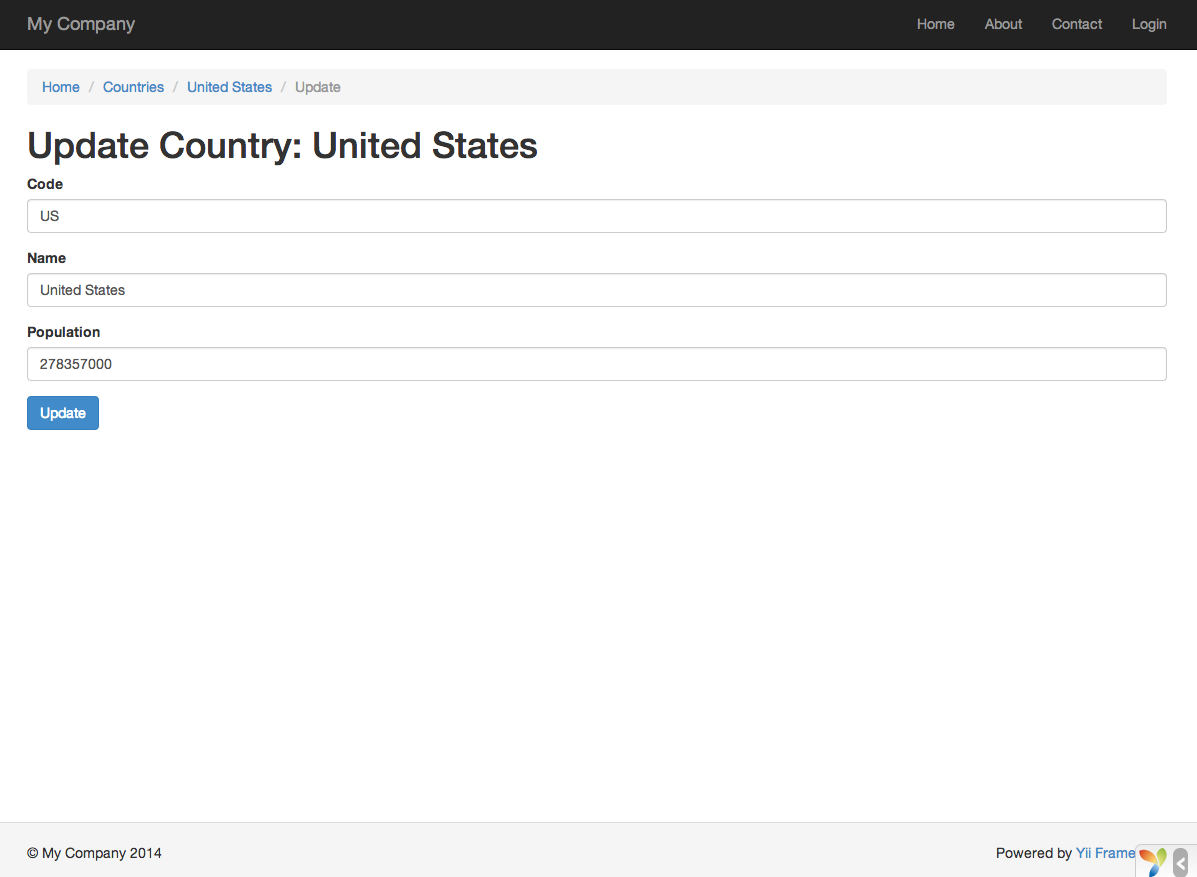
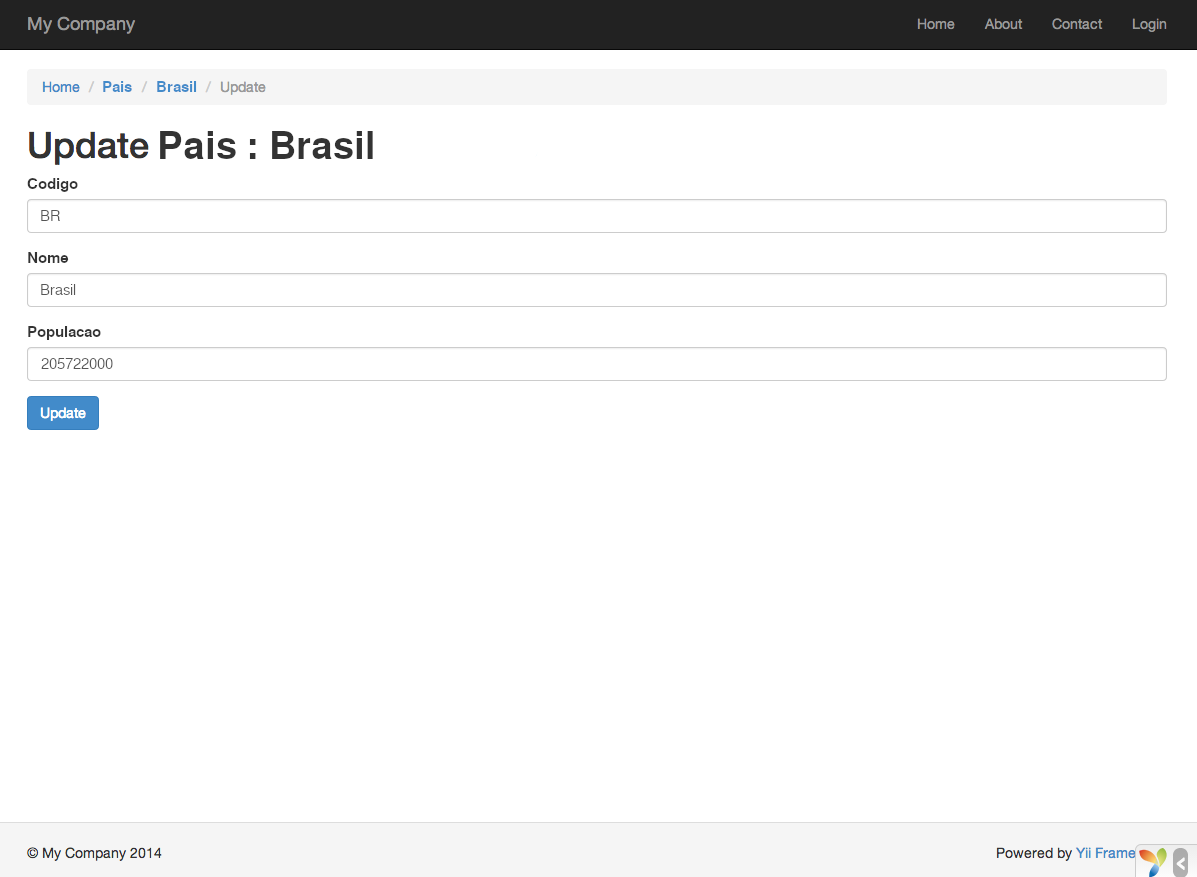
Updates translation pt-BR, fixes grammar and improves didatics using pt-BR code examples

diff --git a/docs/guide-pt-BR/start-gii.md b/docs/guide-pt-BR/start-gii.md
@@ -1,20 +1,20 @@
 Gerando Código com Gii
 ========================
 
-Essa seção irá descrever como usar o [Gii](https://github.com/yiisoft/yii2-gii/blob/master/docs/guide-pt-BR/README.md) para  gerar automaticamente código que implementa algumas funcionalidades comuns de sites. Usar o Gii para gerar código é simples, trata-se apenas de uma questão de entrar com as informações corretas de acordo com as instruções mostradas nas páginas do Gii.
+Essa seção irá descrever como usar o [Gii](https://github.com/yiisoft/yii2-gii/blob/master/docs/guide-pt-BR/README.md) para  gerar automaticamente código que implementa algumas funcionalidades comuns de sites. Usar o Gii para gerar código é simplesmente uma questão de informar os dados corretos conforme as instruções mostradas nas páginas do Gii.
 
 Através desse tutorial, você irá aprender a:
 
-* Habilitar o Gii em sua aplicação
-* Usar o Gii para gerar uma classe Active Record
-* Usar o Gii para gerar código que implementa as operações CRUD para uma tabela do BD
-* Customizar o código gerado pelo Gii
+* habilitar o Gii em sua aplicação,
+* usar o Gii para gerar uma classe Active Record,
+* usar o Gii para gerar código que implementa as operações CRUD para uma tabela do banco de dados, e
+* personalizar o código gerado pelo Gii.
 
 
 Começando a usar o Gii <span id="starting-gii"></span>
 ------------
 
-O [Gii](https://github.com/yiisoft/yii2-gii/blob/master/docs/guide-pt-BR/README.md) é fornecido com o Yii como um [módulo](structure-modules.md). Você pode habilitar o Gii ao configurá-lo na propriedade [[yii\base\Application::modules|modules]] da aplicação. Dependendo de como você criou sua aplicação, você pode já encontrar o seguinte código no arquivo de configuração `config/web.php`:
+O [Gii](https://github.com/yiisoft/yii2-gii/blob/master/docs/guide-pt-BR/README.md) é fornecido como um [módulo](structure-modules.md) do Yii. Você pode habilitar o Gii ao configurá-lo na propriedade [[yii\base\Application::modules|modules]] da aplicação. Dependendo de como você criou sua aplicação, você pode encontrar o seguinte código já pronto no arquivo de configuração `config/web.php`:
 
 ```php
 $config = [ ... ];
@@ -27,22 +27,22 @@ if (YII_ENV_DEV) {
 }
 ```
 
-A configuração acima declara que quando se está em [ambiente de desenvolvimento](concept-configurations.md#environment-constants), a aplicação deve incluir um módulo chamado `gii`, da classe [[yii\gii\Module]].
+A configuração acima declara que, quando estiver usando o [ambiente de desenvolvimento](concept-configurations.md#environment-constants), a aplicação deve incluir um módulo chamado `gii`, da classe [[yii\gii\Module]].
 
-Se você checar o [script inicial](structure-entry-scripts.md) `web/index.php` da sua aplicação, você encontrará a seguinte linha, que essencialmente faz com que o `YII_ENV_DEV` seja verdadeiro.
+Se você verificar o [script de entrada](structure-entry-scripts.md) `web/index.php` da sua aplicação, você encontrará a seguinte linha que, basicamente, torna  `YII_ENV_DEV` verdadeira.
 
 ```php
 defined('YII_ENV') or define('YII_ENV', 'dev');
 ```
 
-Graças a essa linha, sua aplicação está em modo de desenvolvimento e estará com o Gii habilitado, pela configuração acima. Agora você pode acessar o Gii pela URL:
+Graças a essa linha, sua aplicação está em modo de desenvolvimento e terá o Gii habilitado, devido a configuração mais acima. Agora você pode acessar o Gii pela URL:
 
 ```
 http://hostname/index.php?r=gii
 ```
 
-> Observação: Se você está acessando o Gii por um endereço IP que não seja o localhost, o acesso será negado por padrão.
-> Para mudar isso, adicione a lista de endereços IP permitidos à configuração:
+> Note: Se você está acessando o Gii por um endereço IP que não seja o localhost, o acesso será negado por padrão, por questões de segurança.
+> Você pode configurar o Gii adicionando endereços IP permitidos como mostrado a seguir:
 >
 ```php
 'gii' => [
@@ -57,32 +57,32 @@ http://hostname/index.php?r=gii
 Gerando uma classe Active Record <span id="generating-ar"></span>
 ---------------------------------
 
-Para usar o Gii para gerar uma classe Active Record, selecione o "Model Generator" clicando no link na página inicial do Gii. Preencha o formulário como indicado abaixo:
+Para gerar uma classe Active Record usando o Gii, selecione o "Model Generator" clicando no link na página inicial do Gii. Então, preencha o formulário como indicado abaixo:
 
-* Nome da tabela: `country`
-* Classe do modelo: `Country`
+* Nome da tabela: `pais`
+* Classe do modelo: `Pais`
 
 ![Gerador de Modelo](images/start-gii-model.png)
 
-Em seguida, clique no botão "Preview". Você verá o `models/Country.php` listado como arquivo a ser criado. Você pode clicar no nome do arquivo para pré-visualizar seu conteúdo.
+Em seguida, clique no botão "Preview". Você verá o `models/Pais.php` listado como arquivo a ser criado. Você pode clicar no nome do arquivo para pré-visualizar seu conteúdo.
 
 Ao usar o Gii, se você já havia criado o mesmo arquivo e pretende sobrescrevê-lo, clique no botão `diff` próximo ao nome do arquivo para ver as diferenças entre o código a ser gerado e a versão já existente.
 
 ![Pré-visualização do Gerador de Modelo](images/start-gii-model-preview.png)
 
-Quando estiver sobrescrevendo um arquivo, marque a caixa próxima a "overwrite" (sobrescrever) e clique no botão "Generate". Se estiver criando um arquivo novo, apenas clique em "Generate".
+Quando estiver sobrescrevendo um arquivo, marque a caixa próxima a "overwrite" (sobrescrever) e clique no botão "Generate". Se estiver criando um novo arquivo, apenas clique em "Generate".
 
-Em seguida, você verá uma página de confirmação indicando que o código foi gerado com sucesso. Se você já tinha um arquivo, também verá uma mensagem indicando que ele foi sobrescrito com o novo código.
+Em seguida, você verá uma página de confirmação indicando que o código foi gerado com sucesso. Se você já tinha um arquivo, também verá uma mensagem indicando que ele foi sobrescrito pelo novo código.
 
 
 Gerando código CRUD <span id="generating-crud"></span>
 --------------------
 
-CRUD corresponde a Create, Read, Update, and Delete (criar, ler, atualizar e apagar), representando as quatro tarefas comuns feitas com os dados na maioria dos sites. Para criar funcionalidades CRUD usando o Gii, selecione "CRUD Generator" clicando no link na página inicial do Gii. Seguindo o exemplo "country", preencha o formulário com as seguintes informações:
+CRUD significa a Create, Read, Update, and Delete (criar, ler, atualizar e apagar), representando as quatro tarefas comuns feitas com os dados na maioria das aplicações. Para criar funcionalidades CRUD usando o Gii, selecione "CRUD Generator" clicando no link na página inicial do Gii. Seguindo o exemplo "pais", preencha o formulário com as seguintes informações:
 
-* Classe do Modelo: `app\models\Country`
-* Classe da Busca: `app\models\CountrySearch`
-* Classe do Controller: `app\controllers\CountryController`
+* Model Class: `app\models\Pais`
+* Search Model Class: `app\models\PaisSearch`
+* Controller Class: `app\controllers\PaisController`
 
 ![Gerador de CRUD](images/start-gii-crud.png)
 
@@ -90,38 +90,38 @@ Em seguida, clique no botão "Preview". Você verá uma lista de arquivos a sere
 
 ![Pré-visualização do Gerador de CRUD](images/start-gii-crud-preview.png)
 
-Se você criou anteriormente os arquivos `controllers/CountryController.php` e
-`views/country/index.php` (na seção de banco de dados deste guia), marque a caixa "overwrite" para substitui-los. (As versões anteriores não tinham suporte completo às operações CRUD.)
+Se você criou anteriormente os arquivos `controllers/PaisController.php` e
+`views/pais/index.php` (na seção de banco de dados deste guia), marque a caixa "overwrite" para substitui-los. (As versões anteriores não tinham suporte completo às operações CRUD.)
 
 
-Checando os resultados <span id="trying-it-out"></span>
+Conferindo <span id="trying-it-out"></span>
 -------------
 
 Para ver como ficou, use seu navegador para acessar a seguinte URL:
 
 ```
-http://hostname/index.php?r=country/index
+http://hostname/index.php?r=pais/index
 ```
 
 Você verá uma tabela mostrando os países do seu banco de dados. Você pode ordená-los ou filtrá-los inserindo condições nos cabeçalhos das colunas.
 
 Para cada país exibido na tabela, você pode visualizar detalhes, editar ou excluir.
-Você também pode clicar no botão “Create Country” no topo da tabela para ter acesso a um formulário de criação de um novo país.
+Você também pode clicar no botão “Create Pais” no topo da tabela para ter acesso a um formulário para cadastrar um novo país.
 
-![Tabela de Países](images/start-gii-country-grid.png)
+![Grade de Países](images/start-gii-country-grid.png)
 
 ![Editando um País](images/start-gii-country-update.png)
 
-Essa é uma lista de arquivos gerados pelo Gii, caso você queira investigar como essas funcionalidades são implementadas ou adaptá-las:
+Esta é uma lista de arquivos gerados pelo Gii, caso você queira investigar como essas funcionalidades estão implementadas ou ajustá-las:
 
-* Controller: `controllers/CountryController.php`
-* Modelo: `models/Country.php` e `models/CountrySearch.php`
-* Views: `views/country/*.php`
+* Controller: `controllers/PaisController.php`
+* Modelo: `models/Pais.php` e `models/PaisSearch.php`
+* Views: `views/pais/*.php`
 
-> Informação: o Gii é projetado para ser uma ferramenta altamente adaptável e extensível. Usando-o sabiamente, você irá acelerar o desenvolvimento da sua aplicação. Para mais detalhes, por favor siga para a seção [Gii](https://github.com/yiisoft/yii2-gii/blob/master/docs/guide-pt-BR/README.md).
+> Info: o Gii é projetado para ser uma ferramenta altamente adaptável e extensível. Usando-o sabiamente, você pode acelerar bastante o desenvolvimento de sua aplicação. Para mais detalhes, por favor, consulte a seção [Gii](https://github.com/yiisoft/yii2-gii/blob/master/docs/guide-pt-BR/README.md).
 
 
 Resumo <span id="summary"></span>
 -------
 
-Nessa seção, você aprendeu a usar o Gii para gerar código que implementa funcionalidades CRUD para o conteúdo guardado em uma tabela do banco de dados.
+Nessa seção, você aprendeu a usar o Gii para gerar código que implementa todas as operações CRUD para o conteúdo armazenado em uma tabela de banco de dados.
